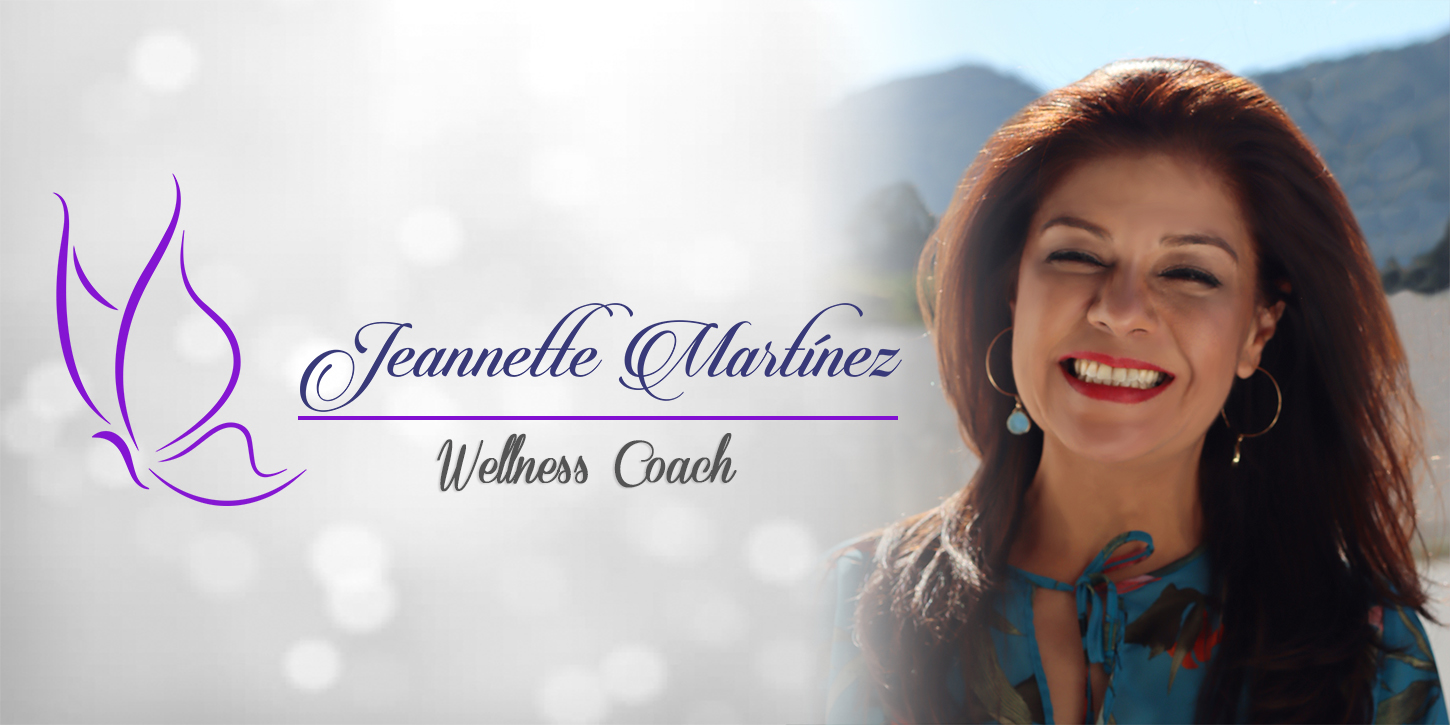
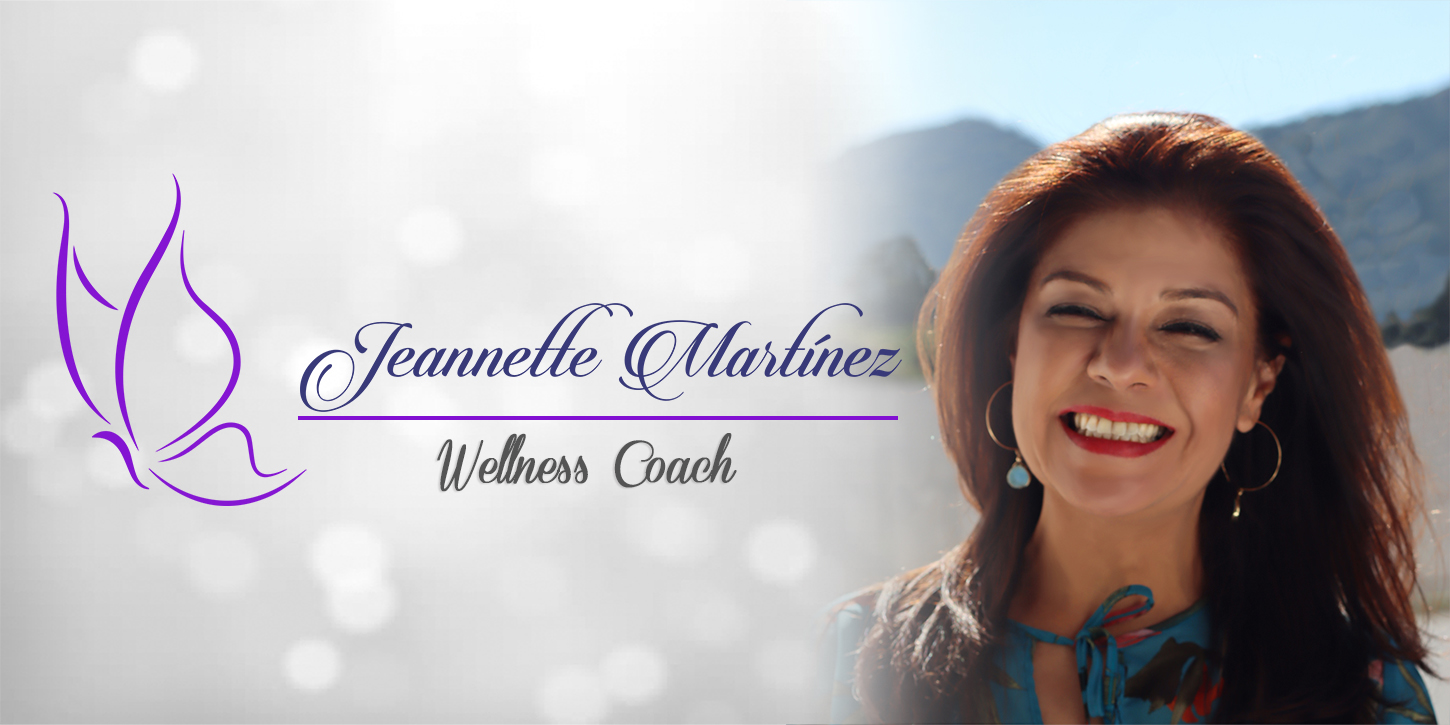
Cambio código Index
Ajustes HTML y Responsive para cambio de portada

Changed region(s): [[0.5586, 0.0303, 1.0, 1.0]]

diff --git a/css/responsive.css b/css/responsive.css
@@ -124,6 +124,13 @@
 	}
 }
 
+@media(min-width:1450px){
+	.header1{
+		background-size:cover;
+		background-position:center;
+	}
+}
+
 @media(max-width:1095px){
 	.blogtxt p{
 		font-size:25px;
@@ -137,6 +144,9 @@
 	}
 	.footerredes{
 		margin-left:20%;
+	}
+	.bodyprin{
+		margin-top:-80px;
 	}
 }
 
@@ -249,7 +259,7 @@
 
 @media(max-width:700px){
 	.header1{
-		height:470px;
+		height:400px;
 	}
 	.divtitulo h2{
 		width:345px;
@@ -260,6 +270,7 @@
 	}
 	.bodyprin{
 		display:block;
+		margin-top:-50px;
 	}
 	.bodysec{
 		width:100%;
@@ -316,9 +327,6 @@
 }
 
 @media(max-width:625px){
-	.header1{
-		height:440px;
-	}
 	.divtitulo h2{
 		width:310px;
 		font-size:36px;
@@ -351,8 +359,13 @@
 
 @media(max-width:580px){
 	.header1{
-		height:400px;
-		background-position:right;
+		background-image:url('../img/index/1resp.jpg');
+		background-position:center;
+		background-size:contain;
+		width:100%;
+	}
+	.bodyprin{
+		margin-top:-40px;
 	}
 	.divtitulo h2{
 		width:310px;
@@ -425,6 +438,12 @@
 }
 
 @media(max-width:485px){
+	.header1{
+		height:450px;
+	}
+	.bodyprin{
+		margin-top:-100px;
+	}
 	.divtitulo h2{
 		width:295px;
 		font-size:34px;
@@ -455,15 +474,8 @@
 }
 
 @media(max-width:425px){
-	.header1{
-		background-image:url('../img/index/1resp.jpg');
-		background-position:center;
-		width:100%;
-		position:absolute;
-		top:0;
-	}
 	.bodyprin{
-		margin-top:450px;
+		margin-top:-120px;
 	}
 	.portadasec{
 		display:block;
@@ -518,6 +530,9 @@
 }
 
 @media(max-width:400px){
+	.header1{
+		height:425px;
+	}
 	.blogtxt p{
 		font-size:20px;
 		text-shadow:2px 2px 5px #4D4955;
@@ -543,9 +558,15 @@
 		top:-75px;
 		left:70px;
 	}
+	.header1{
+		height:400px;
+	}
 }
 
 @media(max-width:328px){
+	.header1{
+		height:350px;
+	}
 	.divtitulo h2{
 		top:-75px;
 		left:10px;

diff --git a/index.html b/index.html
@@ -38,18 +38,18 @@
     </div>
 </div>
 
-<div class="portadaprin">
+<!--<div class="portadaprin">
 	<div class="portadasec">
     	<div class="divlogo">
         	<img src="img/logo.png" alt="Logo">
         </div>
         <div class="divtitulo">
         	<img src="img/index/jeannette.png">
-        	<!--<h2>Jeannette Martinez</h2>-->
+        	<h2>Jeannette Martinez</h2>
             <p>Wellness Coach</p>
         </div>
     </div>	
-</div>
+</div>-->
 
 </header>
 

diff --git a/css/style.css b/css/style.css
@@ -17,7 +17,8 @@ a{
 	background-image:url('../img/index/1.jpg');
 	width:100%;
 	height:670px;
-	background-size:cover;
+	background-size:contain;
+	background-repeat:no-repeat;
 	background-position:center;
 }
 
